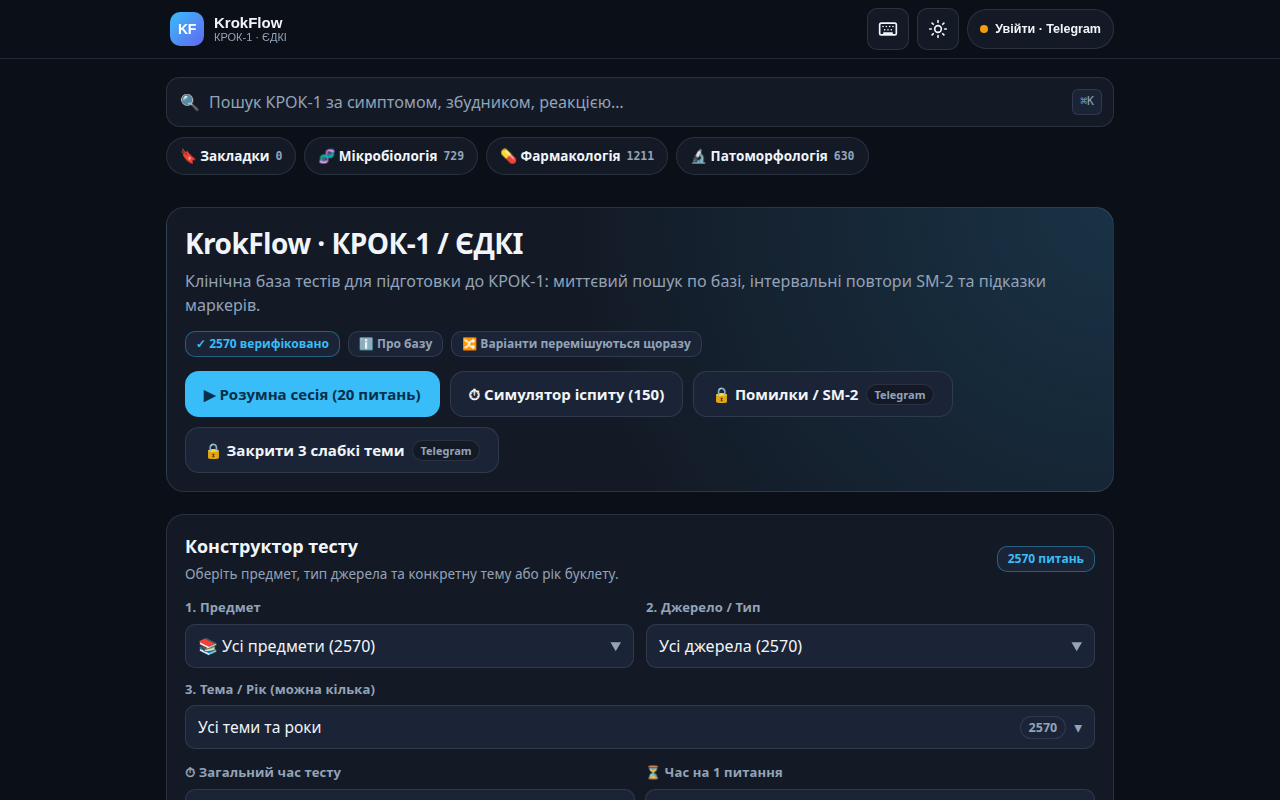
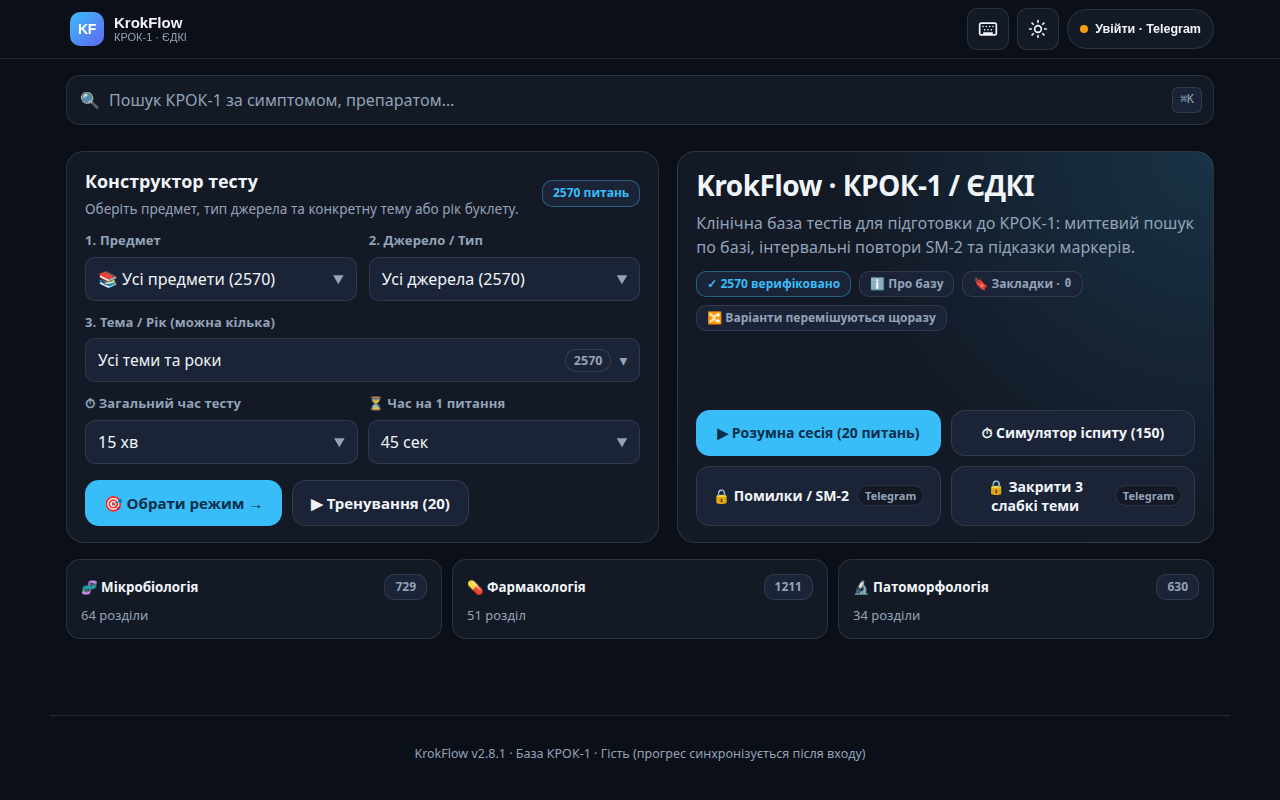
ui(v2.8.1): 2-col desktop / constructor-first mobile dashboard & hide mobile search kbd

diff --git a/static/js/app.js b/static/js/app.js
@@ -1,11 +1,11 @@
 /** Main KrokFlow SPA controller covering all MVP & Phase 2 screens. */
 
-import { api } from "./api.js?v=2.8.0";
+import { api } from "./api.js?v=2.8.1";
 import {
   createCascadeSelector,
   resolveCascadeScope,
   syncCascadeFromSelection,
-} from "./cascade_selector.js?v=2.8.0";
+} from "./cascade_selector.js?v=2.8.1";
 import {
   appendHighlightedText,
   clear,
@@ -13,7 +13,7 @@ import {
   el,
   pluralUk,
   setupDialogLightDismiss,
-} from "./dom.js?v=2.8.0";
+} from "./dom.js?v=2.8.1";
 import {
   clearGuestAttemptsOnly,
   clearGuestBuffer,
@@ -22,8 +22,8 @@ import {
   recordGuestAttempt,
   state,
   toggleGuestBookmark,
-} from "./state.js?v=2.8.0";
-import { initThemeToggle } from "./theme.js?v=2.8.0";
+} from "./state.js?v=2.8.1";
+import { initThemeToggle } from "./theme.js?v=2.8.1";
 
 const LETTERS = ["A", "B", "C", "D", "E"];
 const mainEl = document.getElementById("app-main");
@@ -351,6 +351,7 @@ function updateAuthHeaderPill() {
   if (!pill) return;
   clear(pill);
 
+  const appVer = state.health?.version || "2.8.1";
   if (state.auth.authenticated && state.auth.user) {
     const u = state.auth.user;
     pill.classList.add("is-auth");
@@ -362,14 +363,14 @@ function updateAuthHeaderPill() {
     const due = state.stats?.summary?.due_count || 0;
     pill.appendChild(el("span", { text: due > 0 ? `${label} · ${due}` : label }));
     if (footerText) {
-      footerText.textContent = `KrokFlow v2.0 · Профіль ${label} · SM-2 хмарна синхронізація`;
+      footerText.textContent = `KrokFlow v${appVer} · Профіль ${label} · SM-2 хмарна синхронізація`;
     }
   } else {
     pill.classList.remove("is-auth");
     pill.appendChild(el("span", { className: "guest-dot", "aria-hidden": "true" }));
     pill.appendChild(el("span", { text: "Увійти · Telegram" }));
     if (footerText) {
-      footerText.textContent = "KrokFlow v2.0 · База КРОК-1 · Гість (прогрес синхронізується після входу)";
+      footerText.textContent = `KrokFlow v${appVer} · База КРОК-1 · Гість (прогрес синхронізується після входу)`;
     }
   }
 }
@@ -1505,7 +1506,7 @@ function renderDashboard() {
     id: "search-input",
     type: "search",
     className: "search-input",
-    placeholder: "Пошук КРОК-1 за симптомом, збудником, реакцією…",
+    placeholder: "Пошук КРОК-1 за симптомом, препаратом…",
     value: state.searchQuery,
     autocomplete: "off",
     autocorrect: "off",
@@ -1591,42 +1592,6 @@ function renderDashboard() {
   ]);
   searchWrap.appendChild(searchBox);
 
-  // Compact quick-jump bar (Bookmarks + active subject filter indicator)
-  const bmkCnt = getBookmarkedCount();
-  const quickBar = el("div", { className: "chips-row" }, [
-    el(
-      "button",
-      {
-        type: "button",
-        id: "dash-bookmarks-chip",
-        className: "chip",
-        onClick: () => openBookmarks(),
-      },
-      [el("span", { text: "🔖 Закладки" }), el("span", { className: "chip-count", text: bmkCnt })]
-    ),
-  ]);
-  for (const s of state.subjects) {
-    quickBar.appendChild(
-      el(
-        "button",
-        {
-          type: "button",
-          className: `chip ${state.cascade.subjectId === s.id ? "active" : ""}`,
-          onClick: () => {
-            state.cascade.subjectId = state.cascade.subjectId === s.id ? null : s.id;
-            state.cascade.sourceKind = "all";
-            state.cascade.itemKey = "all";
-            state.cascade.itemKeys = [];
-            pushRoute(buildDashboardFilterUrl(state.cascade), { replace: true });
-            render();
-          },
-        },
-        [el("span", { text: `${s.icon} ${s.title_uk}` }), el("span", { className: "chip-count", text: s.total_questions })]
-      )
-    );
-  }
-  searchWrap.appendChild(quickBar);
-
   const resultsRegion = el("div", { id: "search-results-region", className: "stack-sm" });
   searchWrap.appendChild(resultsRegion);
   root.appendChild(searchWrap);
@@ -1634,6 +1599,7 @@ function renderDashboard() {
   // Hero Quick-Start Card
   const totalAllSubjects = state.subjects.reduce((acc, s) => acc + Number(s.total_questions || 0), 0);
   const verifiedCnt = state.health?.verified_questions ?? totalAllSubjects;
+  const bmkCnt = getBookmarkedCount();
   const hero = el("section", { className: "card hero-card" }, [
     el("div", { className: "row-between" }, [
       el("div", {}, [
@@ -1654,6 +1620,18 @@ function renderDashboard() {
         text: "ℹ Про базу",
         onClick: showDatabaseInfoModal,
       }),
+      !state.auth.authenticated
+        ? el(
+            "button",
+            {
+              type: "button",
+              id: "dash-bookmarks-chip",
+              className: "badge badge-btn",
+              onClick: () => openBookmarks(),
+            },
+            [el("span", { text: "🔖 Закладки ·" }), el("span", { className: "chip-count", text: bmkCnt })]
+          )
+        : null,
       el("span", { className: "badge", text: "🔀 Варіанти перемішуються щоразу" }),
     ]),
     state.auth.authenticated && state.stats?.summary
@@ -1763,7 +1741,6 @@ function renderDashboard() {
         : ["🔒 Закрити 3 слабкі теми", el("span", { className: "btn-lock-tag", text: "Telegram" })]),
     ]),
   ]);
-  root.appendChild(hero);
 
   const renderProgressPill = (obj) => {
     if (!state.auth.authenticated || (!obj.attempted_count && !obj.due_count)) return null;
@@ -1862,7 +1839,12 @@ function renderDashboard() {
         }),
       ]),
     ]);
-    root.appendChild(cascadeCard);
+    root.appendChild(
+      el("section", { className: "dashboard-primary-grid", "aria-label": "Конструктор та швидкий старт" }, [
+        cascadeCard,
+        hero,
+      ])
+    );
 
     // Compact 3-subject overview cards
     const subjGrid = el("section", { className: "subjects-overview-grid", "aria-label": "Дисципліни КРОК-1" });
@@ -1900,6 +1882,10 @@ function renderDashboard() {
       );
     }
     root.appendChild(subjGrid);
+  } else {
+    root.appendChild(
+      el("section", { className: "dashboard-primary-grid", "aria-label": "Швидкий старт" }, [hero])
+    );
   }
 
   mainEl.appendChild(root);

diff --git a/static/css/app.css b/static/css/app.css
@@ -2129,3 +2129,74 @@ mark.krok-marker {
   color: var(--state-wrong);
   font-weight: 500;
 }
+
+/* Dashboard v2.8.1 Responsive Grid & Mobile Search Polish */
+@media (max-width: 767px), (pointer: coarse) {
+  .search-kbd {
+    display: none;
+  }
+  .search-input {
+    padding-inline-end: 16px;
+  }
+  .search-box:has(.search-clear-btn:not([hidden])) .search-input {
+    padding-inline-end: 46px;
+  }
+}
+
+.dashboard-primary-grid {
+  display: grid;
+  grid-template-columns: 1fr;
+  gap: 16px;
+  align-items: start;
+}
+
+.dashboard-primary-grid > * {
+  min-inline-size: 0;
+}
+
+.hero-card {
+  min-inline-size: 0;
+}
+
+@media (min-width: 1024px) {
+  .container {
+    max-width: 1180px;
+  }
+  .app-main {
+    padding-block: 16px 32px;
+  }
+  .stack-lg {
+    gap: 16px;
+  }
+  .dashboard-primary-grid {
+    grid-template-columns: minmax(0, 1.05fr) minmax(0, 0.95fr);
+    gap: 18px;
+    align-items: stretch;
+  }
+  .dashboard-primary-grid .cascade-card,
+  .dashboard-primary-grid .hero-card {
+    padding: 16px 18px;
+    gap: 12px;
+  }
+  .dashboard-primary-grid .hero-card {
+    display: flex;
+    flex-direction: column;
+  }
+  .dashboard-primary-grid .cascade-actions {
+    margin-block-start: auto;
+  }
+  .dashboard-primary-grid .kpi-grid {
+    grid-template-columns: repeat(2, minmax(0, 1fr));
+  }
+  .dashboard-primary-grid .hero-actions {
+    display: grid;
+    grid-template-columns: repeat(2, minmax(0, 1fr));
+    gap: 10px;
+    margin-block-start: auto;
+  }
+  .dashboard-primary-grid .hero-actions .btn {
+    min-inline-size: 0;
+    padding-inline: 12px;
+    font-size: 14px;
+  }
+}

diff --git a/static/index.html b/static/index.html
@@ -30,7 +30,7 @@
   <link rel="apple-touch-icon" href="/static/icons/apple-touch-icon.png">
   <meta name="theme-color" content="#0B1120" media="(prefers-color-scheme: dark)">
   <meta name="theme-color" content="#F8FAFC" media="(prefers-color-scheme: light)">
-  <link rel="stylesheet" href="/static/css/app.css?v=2.8.0">
+  <link rel="stylesheet" href="/static/css/app.css?v=2.8.1">
 </head>
 <body>
   <a href="#app-main" class="skip-link visually-hidden">Перейти до основного вмісту</a>
@@ -76,7 +76,7 @@
   <main id="app-main" class="container app-main" tabindex="-1"></main>
 
   <footer class="site-footer container">
-    <p id="site-footer-text">KrokFlow v2.8 · База КРОК-1 · SM-2 інтервальні повтори та Telegram Sync</p>
+    <p id="site-footer-text">KrokFlow v2.8.1 · База КРОК-1 · SM-2 інтервальні повтори та Telegram Sync</p>
   </footer>
 
   <div id="live-announcer" aria-live="polite" class="visually-hidden"></div>
@@ -210,6 +210,6 @@
     </form>
   </dialog>
 
-  <script type="module" src="/static/js/app.js?v=2.8.0"></script>
+  <script type="module" src="/static/js/app.js?v=2.8.1"></script>
 </body>
 </html>

diff --git a/static/js/cascade_selector.js b/static/js/cascade_selector.js
@@ -1,6 +1,6 @@
 /** Cascading Subject -> Source/Type -> Searchable Multi-Select Topic/Year selector component. */
 
-import { clear, el, pluralUk } from "./dom.js?v=2.8.0";
+import { clear, el, pluralUk } from "./dom.js?v=2.8.1";
 
 const BOOKLET_TAG_RE = /^Буклет\s+(\d{4})$/;
 

diff --git a/app/main.py b/app/main.py
@@ -134,7 +134,7 @@ def create_app() -> FastAPI:
   <meta name="viewport" content="width=device-width, initial-scale=1">
   <meta name="color-scheme" content="dark light">
   <title>404 · Сторінку не знайдено · KrokFlow</title>
-  <link rel="stylesheet" href="/static/css/app.css?v=2.8.0">
+  <link rel="stylesheet" href="/static/css/app.css?v=2.8.1">
 </head>
 <body>
   <main class="container app-main" style="max-width:620px;margin-top:48px">

diff --git a/app/config.py b/app/config.py
@@ -12,7 +12,7 @@ BASE_DIR = Path(__file__).resolve().parent.parent
 STATIC_DIR = BASE_DIR / "static"
 DEFAULT_DB_PATH = BASE_DIR / "data" / "krok.db"
 DEFAULT_ENV_PATH = BASE_DIR / ".env"
-APP_VERSION = "2.8.0"
+APP_VERSION = "2.8.1"
 
 
 def _load_dotenv_file(env_path: Path) -> dict[str, str]:

diff --git a/README.md b/README.md
@@ -2,7 +2,7 @@
 
 [![CI](https://github.com/razin-core/krokflow/actions/workflows/ci.yml/badge.svg)](https://github.com/razin-core/krokflow/actions/workflows/ci.yml)
 
-Public web platform for Ukrainian medical students preparing for **KROK-1 / ЄДКІ** exams (`v2.8.0`).
+Public web platform for Ukrainian medical students preparing for **KROK-1 / ЄДКІ** exams (`v2.8.1`).
 
 - **Live:** https://krokflow.pp.ua (Guest mode + Telegram Login Widget + installable PWA manifest)
 - **Bank:** **2,570 verified questions** across 3 KROK-1 subjects — **Мікробіологія** (`729`), **Фармакологія** (`1,211`), **Патоморфологія** (`630`)
